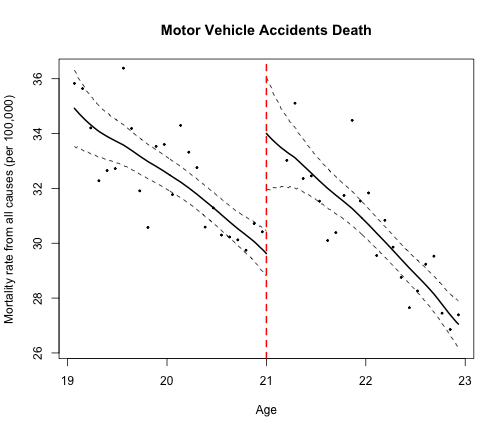
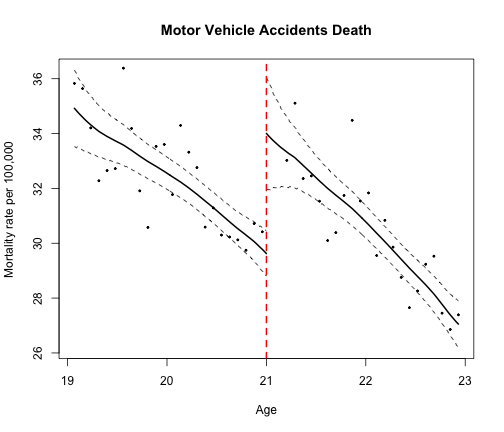
Change plot labels

Changed region(s): [[0.0, 0.2106, 0.0298, 0.7523]]

diff --git a/slides/week09a/week09a.html b/slides/week09a/week09a.html
@@ -207,7 +207,7 @@ abline(v = 21, lwd = 2, lty = "dashed", col = "red")
 rdd2 &lt;- RDestimate(mva ~ agecell, data =  df, cutpoint = 21)
 plot(rdd2)
 title(main = "Motor Vehicle Accidents Death",
-      xlab = "Age", ylab = "Mortality rate from all causes (per 100,000)")
+      xlab = "Age", ylab = "Mortality rate per 100,000")
 abline(v = 21, lwd = 2, lty = "dashed", col = "red")
 ```
 
@@ -223,7 +223,7 @@ abline(v = 21, lwd = 2, lty = "dashed", col = "red")
 rdd3 &lt;- RDestimate(internal ~ agecell, data =  df, cutpoint = 21)
 plot(rdd3)
 title(main = "Other Causes of Death",
-      xlab = "Age", ylab = "Mortality rate from all causes (per 100,000)")
+      xlab = "Age", ylab = "Mortality rate per 100,000")
 abline(v = 21, lwd = 2, lty = "dashed", col = "red")
 ```
 
